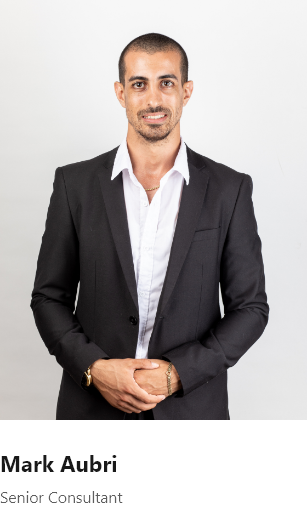
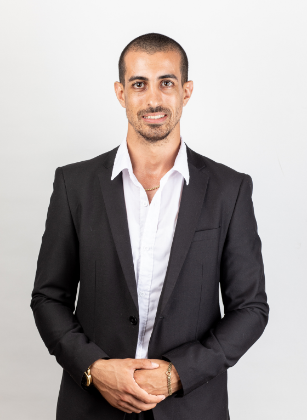
ProjectandCase klar

diff --git a/src/components/Projectandcase.jsx b/src/components/Projectandcase.jsx
@@ -16,22 +16,10 @@ const Projectandcase = () => {
         <div className="container">
             <SectionTitle title="Project & Case Studies" description="Let's Look At Our Global Projects" />
            <div className="project-and-cases">
-            <a className="project" href="#">
-                <img src={newspaper} alt="A mans hand reading business paper" />
-                <ProjectBox title="Grow your business" description="Read more" />
-            </a>
-            <a className="project" href="#">
-                <img src={smartwatch} alt="Pink smartwatch" />
-                <ProjectBox title="Why your client needs a responsive website" description="Read more" />
-            </a>
-            <a className="project" href="#">
-                <img src={penandpaper} alt="Desk with office supplies" />
-                <ProjectBox title="Educate your employees to get better results" description="Read more" />
-            </a>
-            <a className="project" href="#">
-                <img src={pctablet} alt="Laptop with business intelligence insight" />
-                <ProjectBox title="Business Insights is a important piece of your business" description="Read more" />
-            </a>
+                <ProjectBox imageSrc={newspaper} imageTitle="A mans hand reading business paper" title="Grow your business" description="Read more" />
+                <ProjectBox imageSrc={smartwatch} imageTitle="Pink smartwatch" title="Why your client needs a responsive website" description="Read more" />
+                <ProjectBox imageSrc={penandpaper} imageTitle="Desk with office supplies" title="Educate your employees to get better results" description="Read more" />
+                <ProjectBox imageSrc={pctablet} imageTitle="Laptop with business intelligence insight" title="Business Insights is a important piece of your business" description="Read more" />
            </div>
            <div className="center-content">
             <BtnBlack title="All Recent Projects" />

diff --git a/src/components/Meetourteam.jsx b/src/components/Meetourteam.jsx
@@ -7,6 +7,7 @@ import Team04 from '@images/Team04.png';
 import SectionTitle from './SectionTitle';
 import Smallcircles from './Smallcircles';
 import BtnTrans from './BtnTrans';
+import Headshot from './Headshot';
 
 const Meetourteam = () => {
   return (
@@ -17,18 +18,10 @@ const Meetourteam = () => {
           <BtnTrans title="Browse Team" icon="fa-solid fa-arrow-up-right" />
         </section>
         <section className="meet-headshots">
-          <div className="headshots">
-            <img src={Team01} alt="Kristine Palmer" />
-          </div>
-          <div className="headshots">
-            <img src={Team02} alt="Mark Aubri" />
-          </div>
-          <div className="headshots">
-            <img src={Team03} alt="Kimberly Hansen" />
-          </div>
-          <div className="headshots">
-            <img src={Team04} alt="Justin Willoman" />
-          </div>
+          <Headshot imageSrc={Team01} name="Kristine Palmer" title="Chef Operation Officer" />
+          <Headshot imageSrc={Team02} name="Mark Aubri" title="Senior Consultant" />
+          <Headshot imageSrc={Team03} name="Kimberly Hansen" title="Senior Consultant" />
+          <Headshot imageSrc={Team04} name="Justin Willoman" title="Senior Tech Consultant" />
         </section>
         <div className="center-content">
             <Smallcircles icon="fa-duotone fa-circle-small" />

diff --git a/src/assets/styles/_Meetourteam.scss b/src/assets/styles/_Meetourteam.scss
@@ -20,11 +20,24 @@
         .meet-headshots {
             display: flex;
             gap: 30px;
+
+            .headshots {
+                h3 {
+                    font-size: 22px;
+                    font-weight: 700;
+                    margin-top: 25px;
+                }
+                
+                p {
+                    font-size: 16px;
+                    font-weight: 300;
+                }
+            }
         }
             .center-content {
                 .smallcircles {
                     margin-right: 10px;
-                    padding-top: 50px;
+                    padding-top: 30px;
                     padding-bottom: 70px;
                     
                     a {

diff --git a/src/components/ProjectBox.jsx b/src/components/ProjectBox.jsx
@@ -1,10 +1,13 @@
 import React from 'react'
 
-const ProjectBox = ({title, description}) => {
+const ProjectBox = ({imageSrc, imageTitle, title, description}) => {
   return (
     <>
+    <a className="project" href="#">
+    <img src={imageSrc} alt={imageTitle} />
     <h3>{title}</h3>
     <div className="readmore">{description}<i className="fa-regular fa-arrow-up-right"></i></div>
+    </a>
     </>
   )
 }

diff --git a/src/components/Headshot.jsx b/src/components/Headshot.jsx
@@ -1,0 +1,13 @@
+import React from 'react'
+
+const Headshot = ({imageSrc, name, title}) => {
+  return (
+    <div className="headshots">
+    <img src={imageSrc} alt={name} />
+    <h3>{name}</h3>
+    <p>{title}</p>
+  </div>
+  )
+}
+
+export default Headshot
